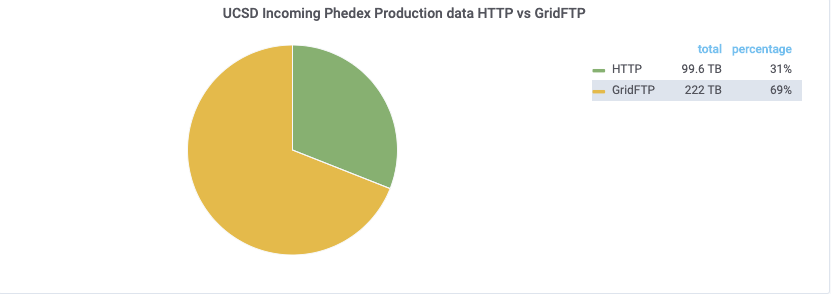
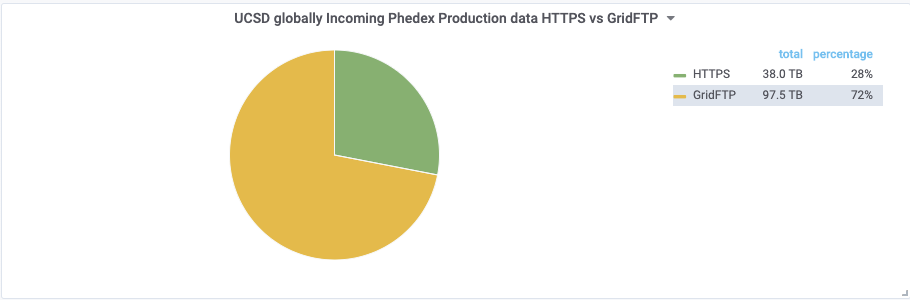
updating gftp vs davs plot; adding atlas plot in tpc project page

diff --git a/pages/projects/tpc.md b/pages/projects/tpc.md
@@ -38,18 +38,51 @@ activity - is investigating the use of HTTP for bulk data transfer.
   </div>
 </div>
 
+<br>
 Over the past months we have been increasingly enabling sites to support the
 HTTP protocol to move data between sites. Our initial goal was set to get one
 site to get more that 30% of its data using the HTTP protocol.
 
+For CMS, we have picked 2 sites: Nebraska and UCSD to be the ones leading the transition by
+using the 'davs' protocol for all their incoming production transfers from the many sites which
+can support such protocol.
+ 
+<br>
 <div class="card" style="width: 40rem;">
   <img class="card-img-top" style="object-fit: contain"  src="/assets/images/gftp-vs-http.png" alt="GridFTP vs HTTP">
   <div class="card-body">
    <h5 class="card-title">Percentage of data transfered to UCSD using GridFTP and HTTP</h5>
    <p class="card-text">The above shows the amount of data transferred to UCSD
-    using the GridFTP protocol with respect to HTTP during the period of time
-    of one month between May 15 and June 15th of 2020.
+    using the GridFTP protocol with respect to HTTP during July 2020.
    </p>
   </div>
 </div>
+
+<br>
+TPC Dashboards for Nebraska and UCSD can be found here:
+
+ * [Nebraska](https://monit-grafana.cern.ch/d/aDc1qQwZk1/tpc-over-xrootd-at-nebraska?orgId=11)
+ * [UCSD](https://monit-grafana.cern.ch/d/aDc1qQwZk/tpc-over-xrootd-at-ucsd?orgId=11)
+
+<br>
+On the ATLAS side, the transition has started to ramp up with 3 participating sites: 
+AGLT2, PragueLCG2 and SLAC.
+
+<br>
+<div class="card" style="width: 40rem;">
+  <img class="card-img-top" style="object-fit: contain"  src="/assets/images/tpc-breakdown-atlas.png" alt="Atlas protocol breakdown">
+  <div class="card-body">
+   <h5 class="card-title">Protocol breakdown for transfers at: PragueLCG2 and AGLT2 </h5>
+   <p class="card-text">The above shows the percentage of data transferred using each of the available protocols
+    for the sites: PrageLCG2 and AGLT2 during July 2020.
+   </p>
+  </div>
+</div>
+
+<br>
+Important links about the project can be found here:
+
+ * [Third Party Copy](https://twiki.cern.ch/twiki/bin/view/LCG/ThirdPartyCopy)
+ * [DCache instructions](https://twiki.cern.ch/twiki/bin/view/LCG/DCacheConfig)
+ * [XRootD instructions](https://twiki.cern.ch/twiki/bin/view/Main/XRootDoverHTTP)
 
